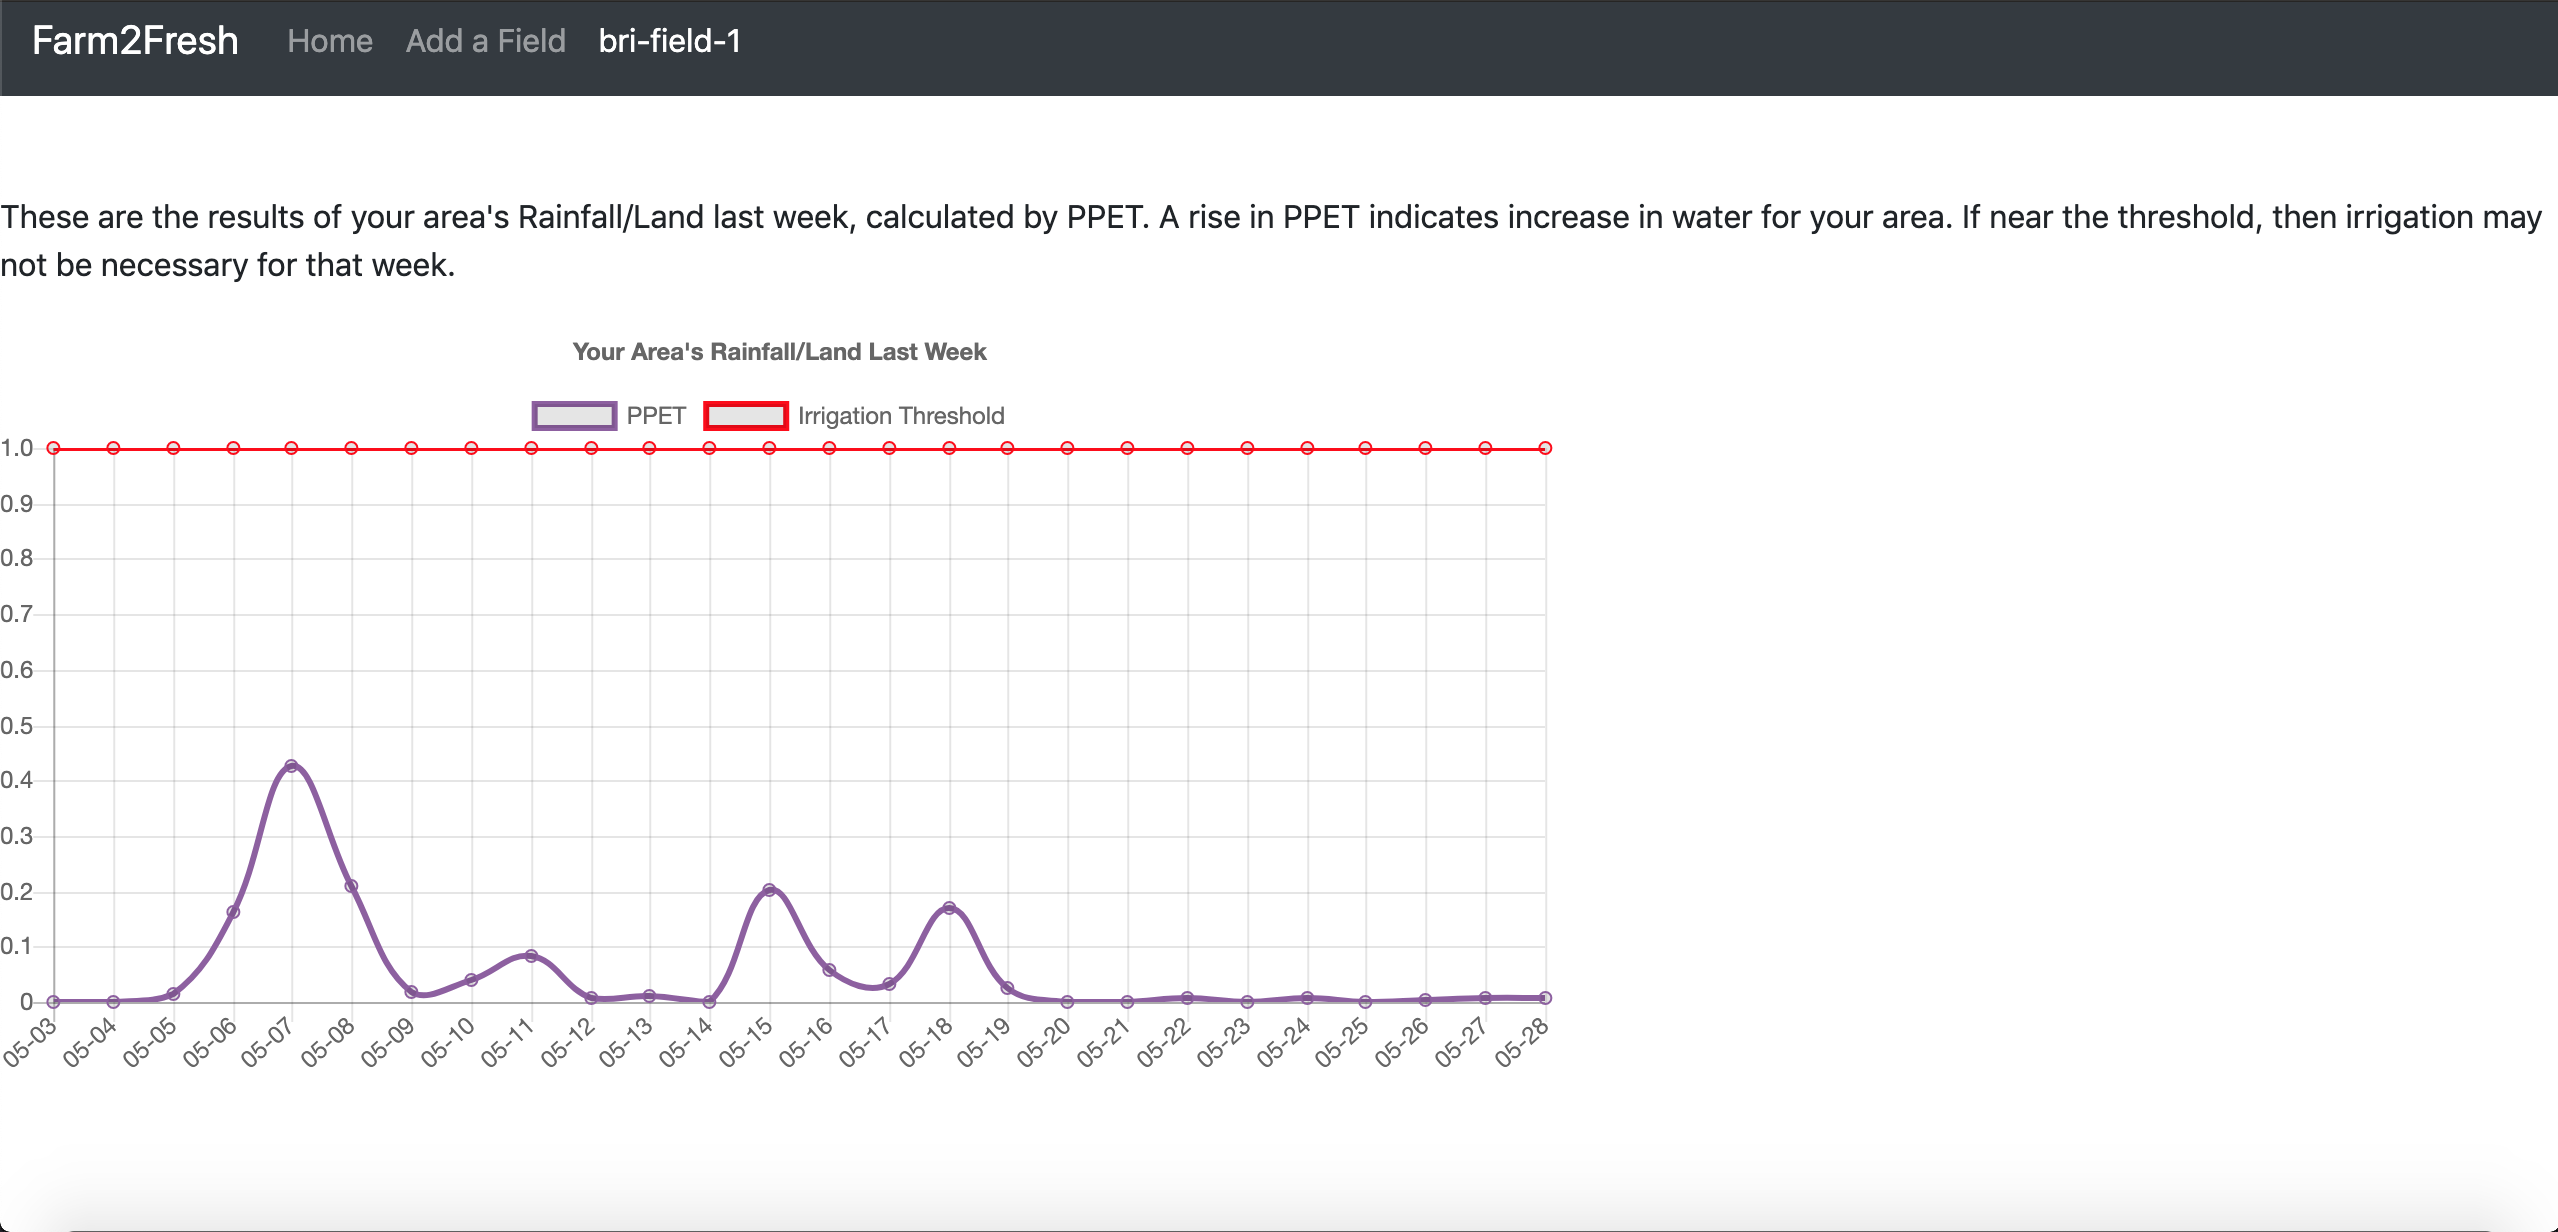
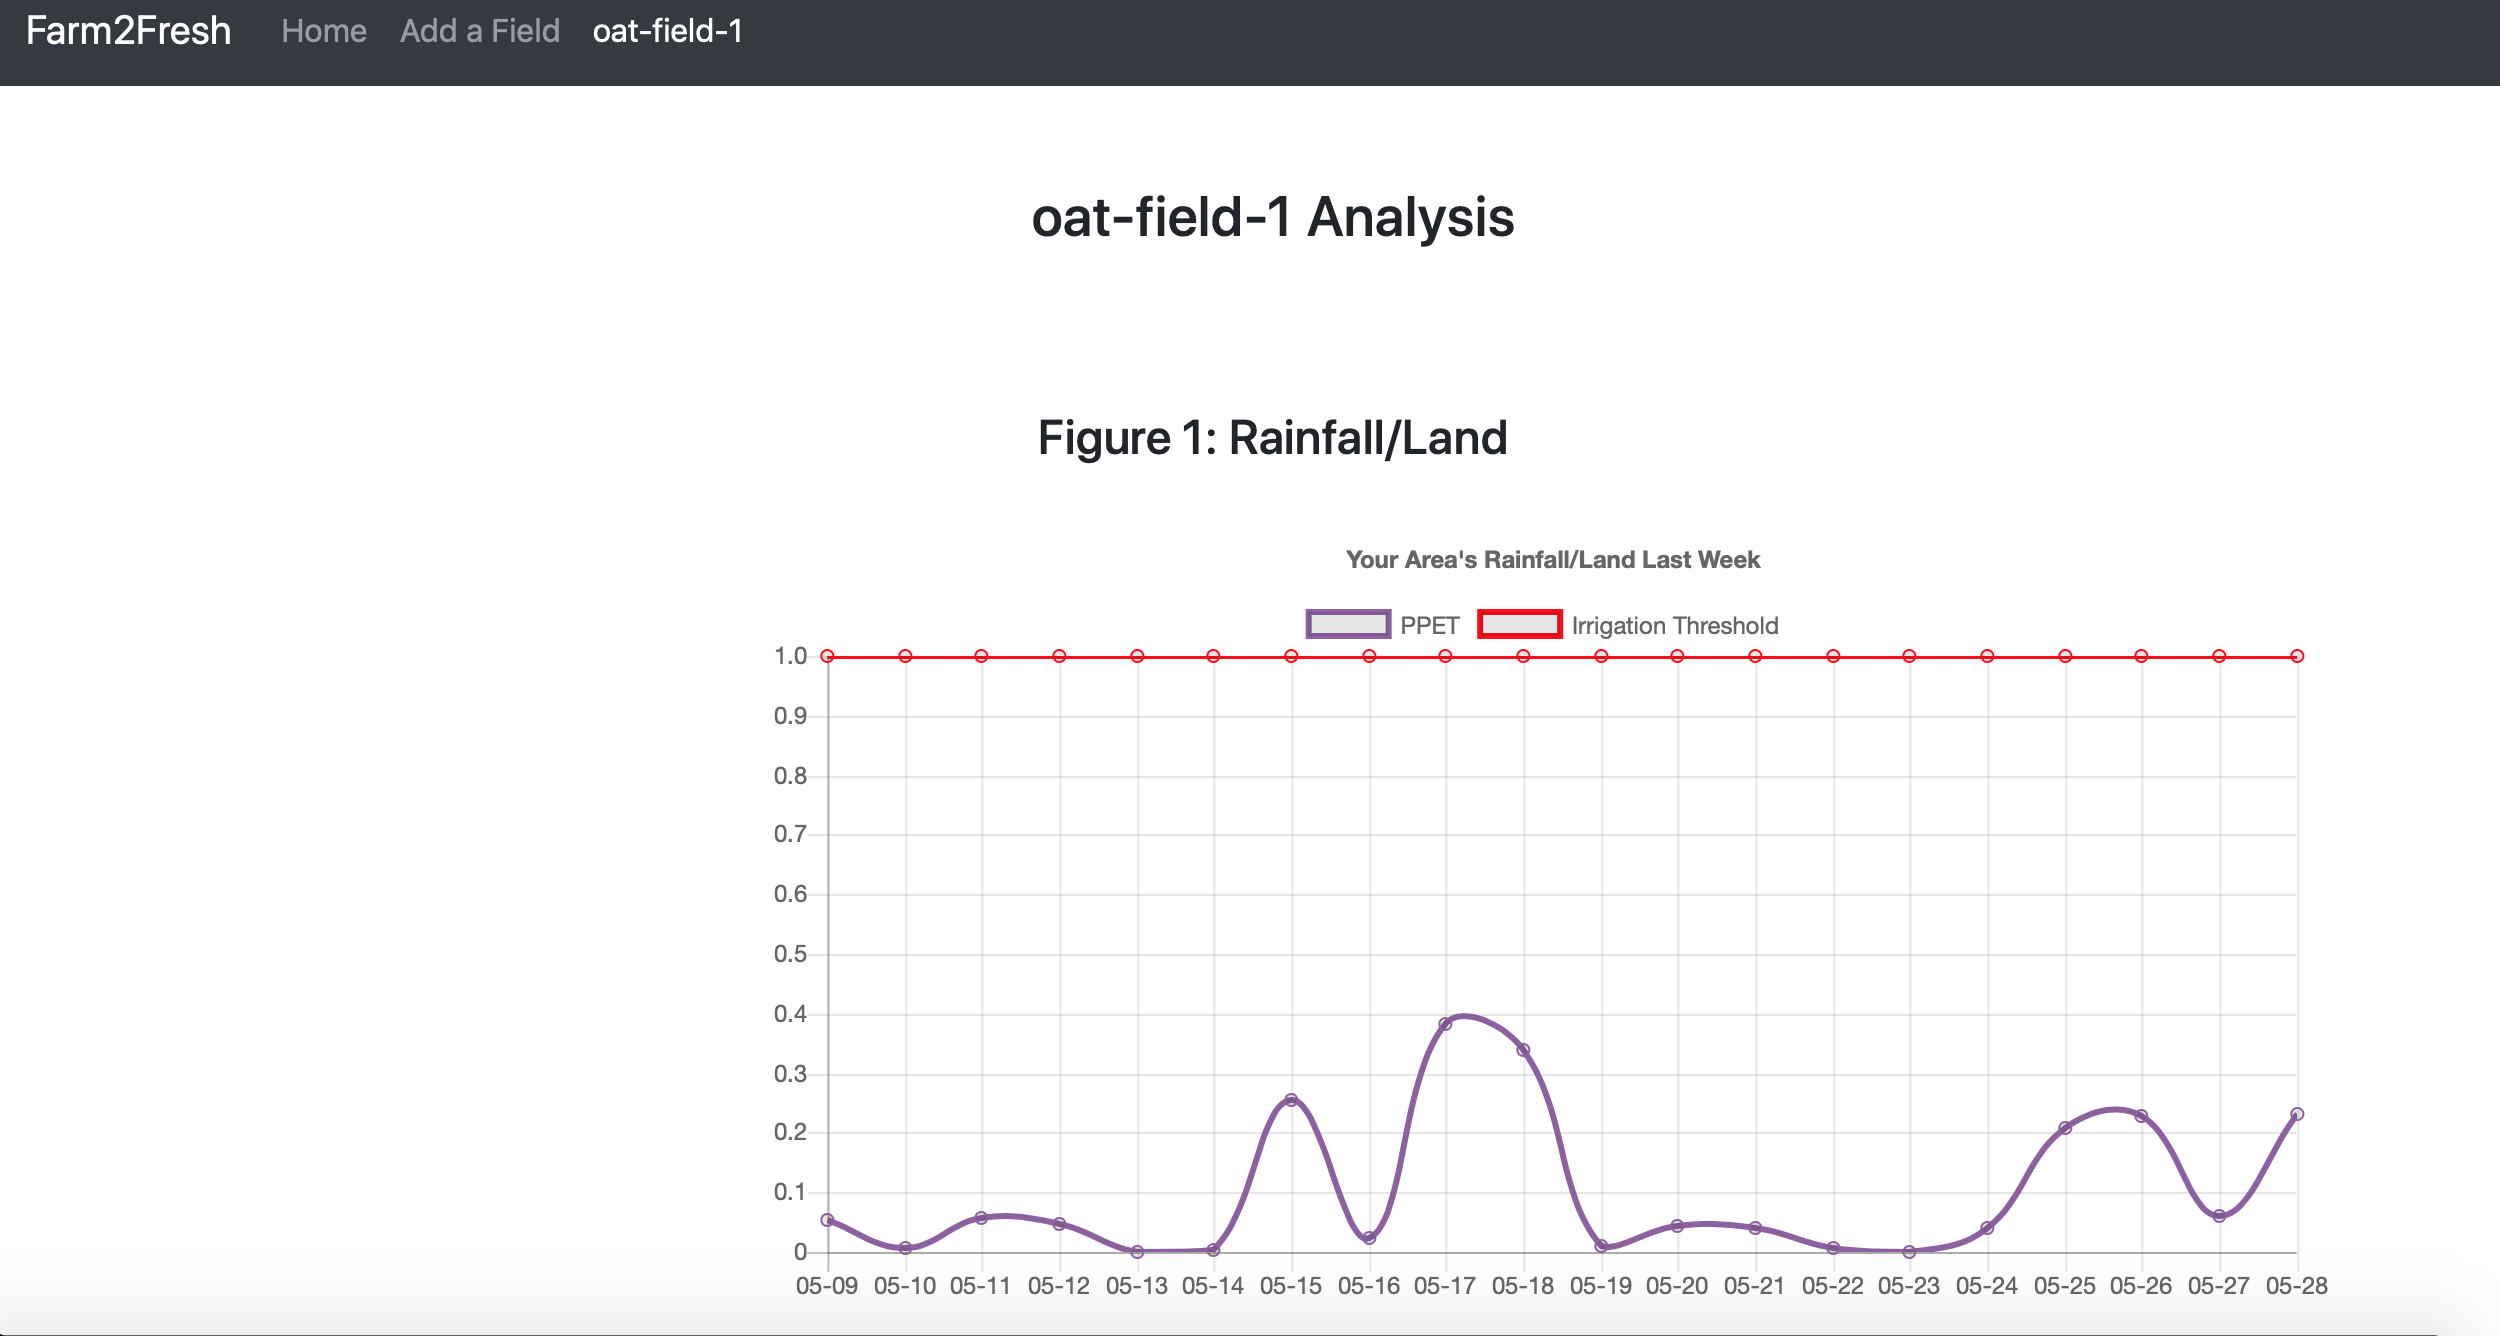
finished md5 6 and 7

diff --git a/field.html b/field.html
@@ -45,7 +45,7 @@
             <div id="get-agronomic"></div>
         </div>-->
         <div class="col-sm-4">
-            <div class="chart-container" style="position: relative; left: 390px; height:440px; width:780px">
+            <div class="chart-container" style="position: relative; left: 270px; height:400px; width:780px">
                 <canvas id="generateChart"></canvas>
             </div>
         </div>
@@ -56,7 +56,7 @@
     <h4> <center>Figure 2: Weather Forecast</center></h4>
     <div class="row">
         <div class="col-sm-4">
-            <div class="chart-container" style="position: relative; left: 390px; height:440px; width:780px">
+            <div class="chart-container" style="position: relative; left: 270px; height:440px; width:780px">
                 <canvas id="myChart"></canvas>            
             </div>
         </div>
@@ -213,7 +213,7 @@
         };
 
         var myChart = new Chart(ctx, chartType);
-        document.getElementById('rain-text').innerHTML = `<p><center>This is your future rain forecast, calculated by your farm's location.If the chance of rain is greater than 50 %, consider not irrigating your crop if PPET is also increasing.</center></p>`;
+        document.getElementById('rain-text').innerHTML = `<p><center>This is your future rain forecast, calculated by your farm's location. If the chance of rain is <br> greater than 50 %, consider not irrigating your crop if PPET is also increasing.</center></p>`;
     }
 
     function generateGraph(days, data){
@@ -244,7 +244,7 @@
         };
 
         var myChart2 = new Chart(ctx2, chartType);
-        document.getElementById('ppet-text').innerHTML = `<p><center>These are the results of your area's Rainfall/Land last week, calculated by PPET. A rise in PPET indicates increase in water for your area. If near the threshold, then irrigation may not be necessary for that week.</center></p>`;
+        document.getElementById('ppet-text').innerHTML = `<p><center>These are the results of your area's Rainfall/Land last week, calculated by PPET. A rise in PPET indicates <br> increase in water for your area. If near the threshold, then irrigation may not be necessary for that week.</center></p>`;
     }
 </script>
 </html

diff --git a/server.js b/server.js
@@ -1,4 +1,4 @@
-const TOKEN = 'OGclapNtioF0mB9oO6CL2Jvi5i1A'
+const TOKEN = 'CDG70Q60g8iiKJ10mEcEGLaHAhI0'
 const HOST = 'https://api.awhere.com'
 
 // init server framework

diff --git a/milestone5/milestone5.md b/milestone5/milestone5.md
@@ -51,10 +51,8 @@ Furthermore, there has been updates in the styling of the add field tab. Next we
 
 ### How Data Visualizations Implemented
 ---
-
-
-
-
+Our data is being visualized through field.html. It creates an ajax call to aWhere.com for weather forecasts and previous water/land % based on the farmer's location. The data was shown using chart.js to display a line graph and displays data based on the actual day. The farmer can use them to help determine whether to irrigate that specific crop or not in the upcoming days.
 
 ### Ambitious Data Display Ideas
 ---
+Early on there were a lot of other services we were providing to help the farmer. For example, we wanted to give them a recent news section and a complete weather forecast. We also wanted to direct this specifically for beginning farmers, so we had a FAQ section with basics about how set up the farm, which crops were good in specific climates, and how to access markets to sell produce. Lastly, we had also planned to have more predictors for the crops like when the harvest. Many of these became restrained based on member time-constraints and what global dataset we were able to access.
